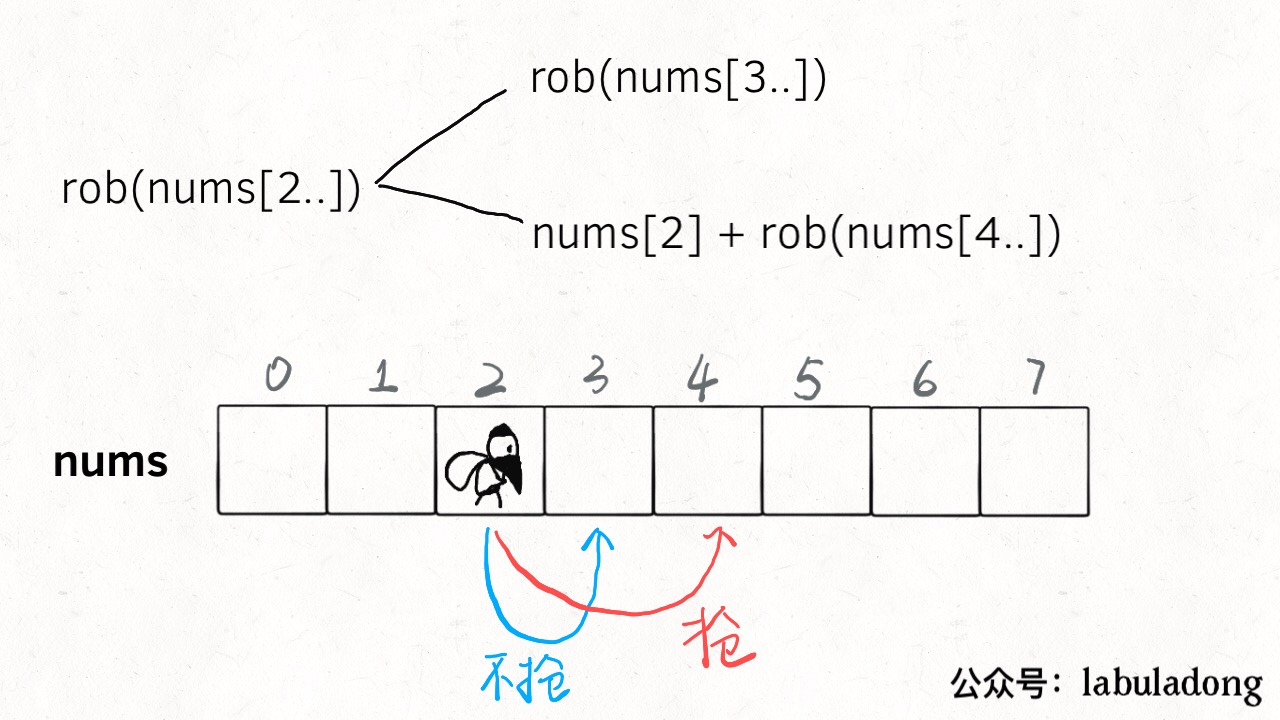
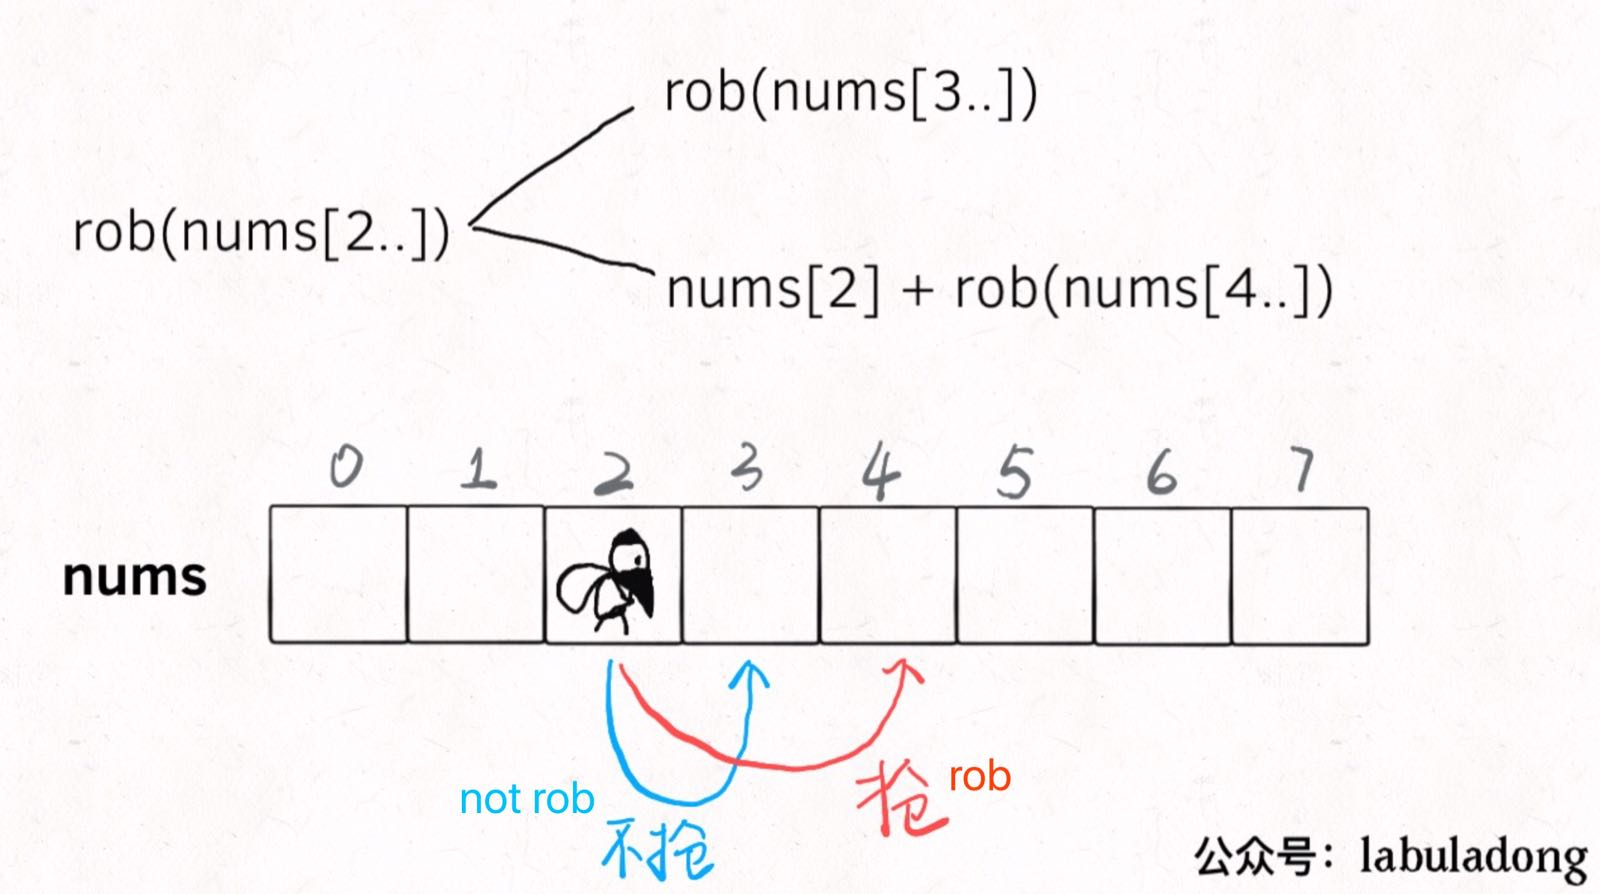
finished translate

diff --git a/dynamic_programming/House Robber.md b/dynamic_programming/House Robber.md
@@ -1,0 +1,225 @@
+# House Robber series
+Translator: [cooker](https://github.com/xiaochuhub)
+Author: [labuladong](https://github.com/labuladong)
+
+I find that this series of problems are highly praised. They are representative and skillful dynamic planning problems.
+Today I will introduce an generalized method to solve all of these problems.
+
+House robber series includes three problems. The difficulty design is very reasonable and progressive.
+The first ([house robber](https://leetcode.com/problems/house-robber/)) is a standard dynamic programming problem.
+The second ([house robber ii](https://leetcode.com/problems/house-robber-ii/)) include incorporates the condition of a circular array.
+The third ([house robber iii](https://leetcode.com/problems/house-robber-iii/)) is quite amazing which combines the bottom-up and top-down solutions of dynamic programming with a binary tree. 
+If you haven't done it, I highly recommend this series of problems.
+
+### House Robber I
+
+![title](../pictures/robber/rob1.jpg)
+
+```java
+public int rob(int[] nums);
+```
+
+The problem is easy to understand and the characteristics of dynamic programming are quite obvious. We have summarized the [Dynamic programming Detailed Explanation] before, **the key points to solve the dynamic programming problem is to find [state] and [choice]**.
+
+Imagine that you are this professional robber. You walk through this row of houses from left to right. There are two **choices** in front of each house: `rob` or `not rob`.
+
+`rob`: If you rob this house, then you **definitely** can't rob the adjacent houses, you can only start the next rob from the house after next.
+
+`not rob`: If you don't rob this house, then you can walk to the next house and continue making choices.
+
+When you walked past the last house, you don't have to rob. The money you could rob is obviously 0 (**base case**).
+
+The above logic is very simple. In fact, the **state** and **choice** have been clearly defined: **The index of the house in front of you is the `state`, and rob or not rob is `choice`**.
+
+![1](../pictures/robber/1.jpg)
+
+In these two choices, you need to choose a larger result each time. You end up with the most money you can rob:
+```java
+// main function
+public int rob(int[] nums) {
+    return dp(nums, 0);
+}
+// return nums[start..] Maximum value that can be robbed
+private int dp(int[] nums, int start) {
+    if (start >= nums.length) {
+        return 0;
+    }
+    
+    int res = Math.max(
+            // not rob, walk to the next house
+            dp(nums, start + 1), 
+            // rob，walk to the house after next
+            nums[start] + dp(nums, start + 2)
+        );
+    return res;
+}
+```
+
+After clearing the state transition, we can find that there is an overlap sub-problem for the same `start` position, such as the following figure:
+![2](../pictures/robber/2.jpg)
+
+Thieves have multiple choices to go to this position. Wouldn't it be a waste of time if they entered recursion every time? So there are overlapping sub-problems that can be optimized with memos:
+
+```java
+private int[] memo;
+// main function
+public int rob(int[] nums) {
+    // initialize the memos
+    memo = new int[nums.length];
+    Arrays.fill(memo, -1);
+    // robber robs from house 0
+    return dp(nums, 0);
+}
+
+// return dp[start..] Maximum value that can be robbed
+private int dp(int[] nums, int start) {
+    if (start >= nums.length) {
+        return 0;
+    }
+    // Avoid duplicate processing
+    if (memo[start] != -1) return memo[start];
+    
+    int res = Math.max(dp(nums, start + 1), 
+                    nums[start] + dp(nums, start + 2));
+    // record the result to memos
+    memo[start] = res;
+    return res;
+}
+```
+
+This is the top-down dynamic programming solution. We can also modify it slightly and write the **bottom-up** solution:
+```java
+ int rob(int[] nums) {
+    int n = nums.length;
+    // dp[i] = x: start rob at i-th house, the maximum money you can get is x
+    // base case: dp[n] = 0
+    int[] dp = new int[n + 2];
+    for (int i = n - 1; i >= 0; i--) {
+        dp[i] = Math.max(dp[i + 1], nums[i] + dp[i + 2]);
+    }
+    return dp[0];
+}
+```
+
+We also found that the state transition is only related to the two recent states of `dp [i]`, so it can be further optimized to reduce the space complexity to O(1).
+
+```java
+int rob(int[] nums) {
+    int n = nums.length;
+    // record dp[i+1] and dp[i+2]
+    int dp_i_1 = 0, dp_i_2 = 0;
+    // record dp[i]
+    int dp_i = 0; 
+    for (int i = n - 1; i >= 0; i--) {
+        dp_i = Math.max(dp_i_1, nums[i] + dp_i_2);
+        dp_i_2 = dp_i_1;
+        dp_i_1 = dp_i;
+    }
+    return dp_i;
+}
+```
+
+The above process has been explained in detail in [Dynamic programming Detailed Explanation]. I believe that everyone can catch it. I think the next problem is more interesting, and we need to make some clever changes based on our current thinking.
+
+### House Robber II
+
+![title](../pictures/robber/rob2.jpg)
+
+This question is basically the same as the first description. The robber still cannot rob adjacent houses. The input is still an array, but these houses are not in a row but arranged in a **circle**.
+
+In other words, the first house and the last house are also adjacent and cannot be robbed at the same time. For example, if the input array `nums = [2,3,2]`, the result returned by the algorithm should be 3 instead of 4, because the beginning and end cann't be robbed at the same time.
+
+It seems that this constraint should not be difficult to solve. We mentioned a solution for circular arrays in [a monotonic stack solve Next Greater Number]. So how to deal with this problem?
+
+First of all, the first and last rooms cannot be robbed at the same time, then there are only three possible situations: case I, either they are not robbed; case II the first house is robbed and the last one is not robbed; case III, the first house is not robbed and the last one is robbed; 
+
+![3](../pictures/robber/3.jpg)
+
+That's easy. The solution is the maximum of these three cases. However, in fact, we don't need to compare three cases, just compare case II and case III. **Because these two cases have more room to choose than the case I, the money in the house is non-negative. So the optimal decision result is certainly not small if we have more choice**.
+
+So just modify the previous solution slightly:
+
+```java
+public int rob(int[] nums) {
+    int n = nums.length;
+    if (n == 1) return nums[0];
+    return Math.max(robRange(nums, 0, n - 2), 
+                    robRange(nums, 1, n - 1));
+}
+
+// Calculate the optimal result for only the closed interval [start, end]
+int robRange(int[] nums, int start, int end) {
+    int n = nums.length;
+    int dp_i_1 = 0, dp_i_2 = 0;
+    int dp_i = 0;
+    for (int i = end; i >= start; i--) {
+        dp_i = Math.max(dp_i_1, nums[i] + dp_i_2);
+        dp_i_2 = dp_i_1;
+        dp_i_1 = dp_i;
+    }
+    return dp_i;
+}
+```
+
+At this point, the second problem has also been solved.
+
+### House Robber III
+
+The third question changes the pattern again. The house now is arranged not a row, not a circle, but a binary tree! The house is on the node of the binary tree. The two connected houses cannot be robbed at the same time. It is indeed a legendary high IQ crime:
+![title](../pictures/robber/rob3.jpg)
+
+The overall thinking hasn't changed at all, we need to choose the option of robbing or not robbing, and make choice with higher returns. We can even write the code directly according to this routine:
+```java
+Map<TreeNode, Integer> memo = new HashMap<>();
+public int rob(TreeNode root) {
+    if (root == null) return 0;
+    // Eliminating overlapping subproblems with memos
+    if (memo.containsKey(root)) 
+        return memo.get(root);
+    // rob, walk to the house after next
+    int do_it = root.val
+        + (root.left == null ? 
+            0 : rob(root.left.left) + rob(root.left.right))
+        + (root.right == null ? 
+            0 : rob(root.right.left) + rob(root.right.right));
+    // not rob, walk to the next house
+    int not_do = rob(root.left) + rob(root.right);
+    
+    int res = Math.max(do_it, not_do);
+    memo.put(root, res);
+    return res;
+}
+```
+
+This problem is solved, the time complexity O (N), `N` is the number of nodes.
+
+But what makes me think that this problem is clever is that there are more beautiful solutions. For example, here is a solution I saw in the comment:
+```java
+int rob(TreeNode root) {
+    int[] res = dp(root);
+    return Math.max(res[0], res[1]);
+}
+
+/* return an array of size 2 arr
+arr [0] means the maximum amount of money you get if you do not rob root
+arr [1] means the maximum amount of money you get if you rob root */
+int[] dp(TreeNode root) {
+    if (root == null)
+        return new int[]{0, 0};
+    int[] left = dp(root.left);
+    int[] right = dp(root.right);
+    // rob, walk to the house after next
+    int rob = root.val + left[0] + right[0];
+    // not rob, The next home can be robbed or not, depending on the size of the income
+    int not_rob = Math.max(left[0], left[1])
+                + Math.max(right[0], right[1]);
+    
+    return new int[]{not_rob, rob};
+}
+```
+
+The time complexity is O (N). The space complexity is only the space required by the recursive function stack, and no extra space is needed for the memo.
+
+His thinking is different from ours. He has modified the definition of recursive functions and slightly modified his thinking so that the logic is self-consistent, he still gets the correct answer, and the code is more beautiful. This is a characteristic of the dynamic programming problem that we mentioned earlier in [Different Definitions Generate Different Solutions].
+
+In fact, this solution runs much faster than our solution, although the time complexity of the algorithm analysis level is the same. The reason is that this solution does not use additional memos, which reduces the complexity of data operations, so the actual operation efficiency will be faster.

diff --git a/README.md b/README.md
@@ -83,7 +83,7 @@ This command specifies the `english` branch and limit the depth of clone, get ri
   * [KMP Algorithm In Detail](dynamic_programming/KMPCharacterMatchingAlgorithmInDynamicProgramming.md)
   * [动态规划详解](dynamic_programming/动态规划详解进阶.md)
   * [团灭 LeetCode 股票买卖问题](dynamic_programming/团灭股票问题.md)
-  * [团灭 LeetCode 打家劫舍问题](dynamic_programming/抢房子.md)
+  * [House Robber series](dynamic_programming/HouseRobber.md)
 
 * V. Common Knowledge
   * [Difference Between Process and Thread in Linux](common_knowledge/linuxProcess.md)
